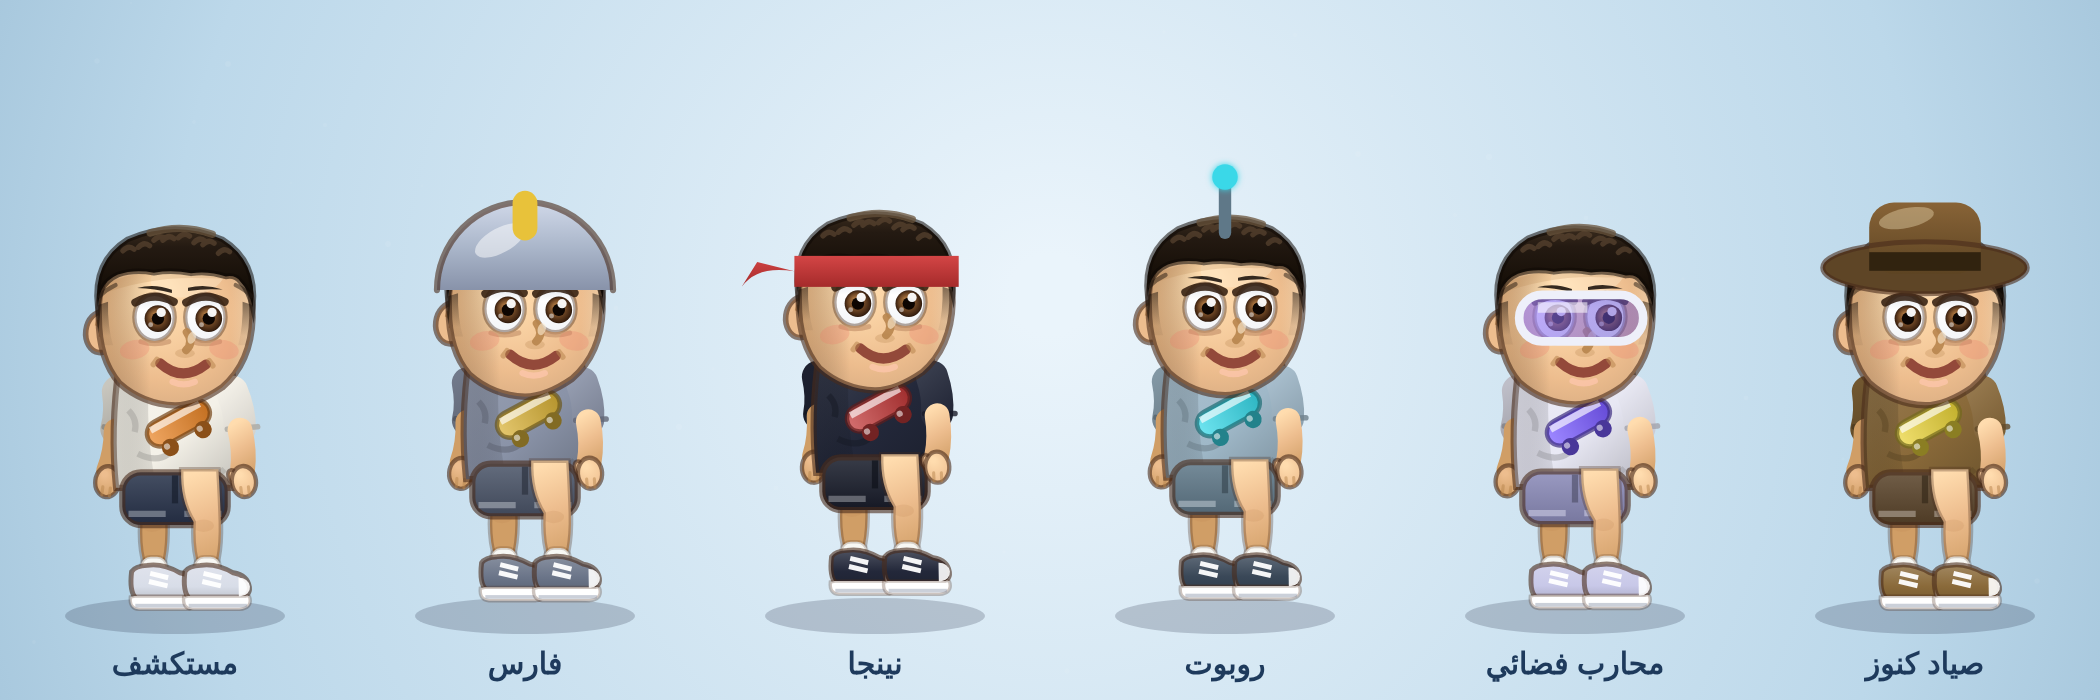
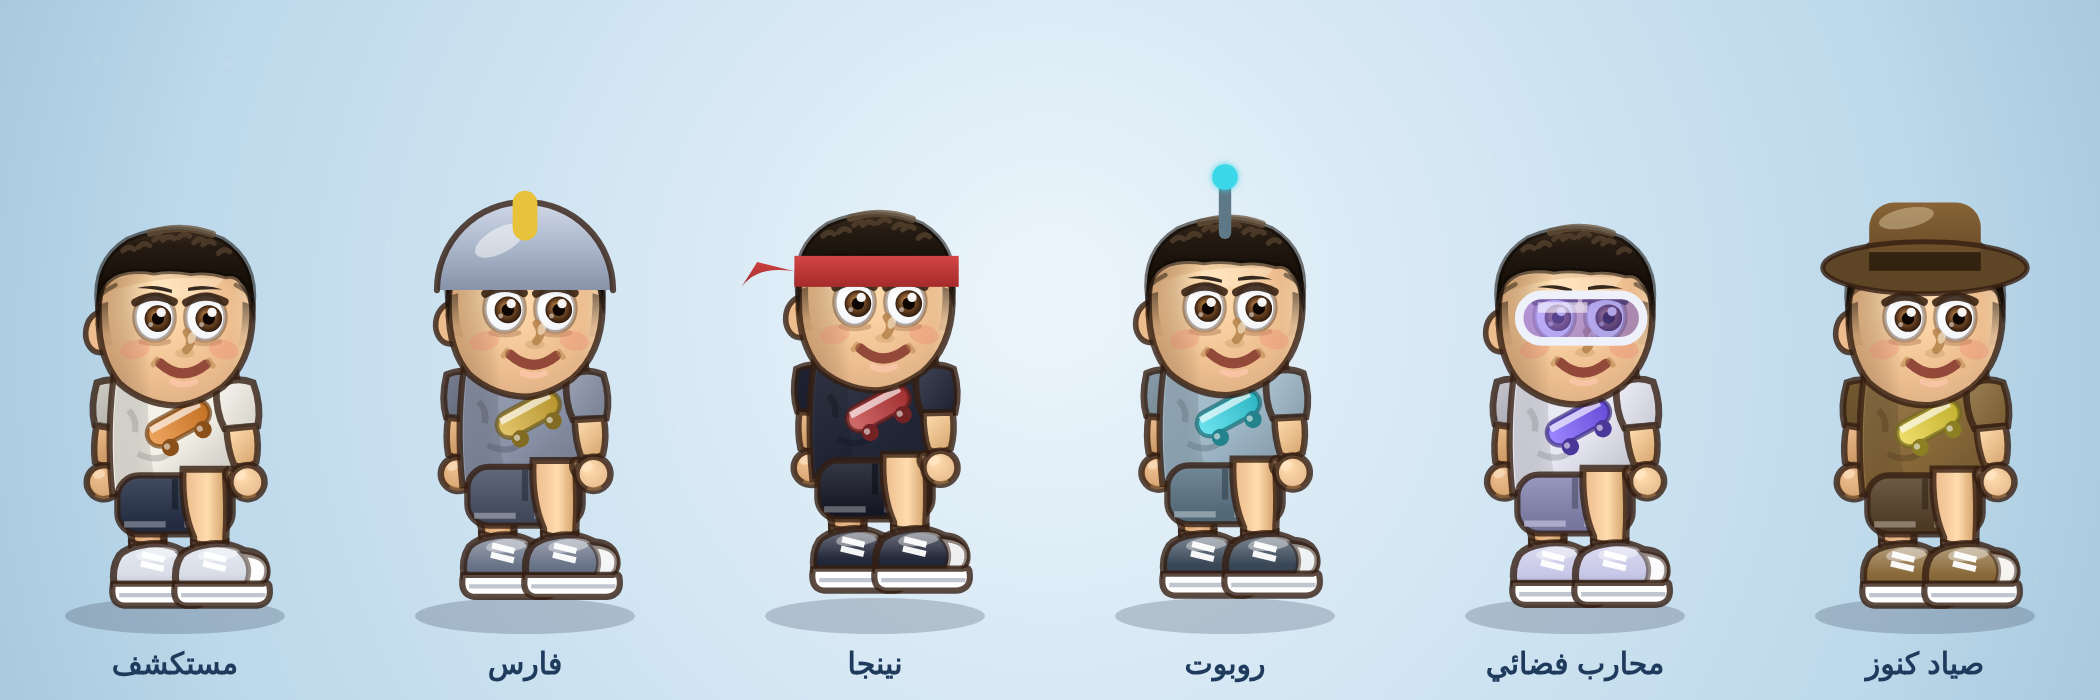
Character art restyle v5: chunky platformer-mascot look
Complete redraw of body and limbs in a different art direction while
keeping the photo-matched face:
- Bold comic outlines throughout (heavier, darker line weight)
- Chunky volumetric limbs replacing thin strokes: wide shirt sleeves
  as filled shapes with cuff, tapered forearm blocks with elbow bend,
  big round glove-style hands with integrated thumb, single knuckle
  crease and highlight
- Thick short legs with cylindrical shading and thick socks
- Signature oversized cartoon sneakers: puffy body, huge rounded
  rubber toe cap, extra-thick white sole with midline, bold laces
- Wider torso and shorts to balance the new proportions

Claude-Session: https://claude.ai/code/session_01WV3PCMXxFaSr6jYfzUPyqs

diff --git a/js/game/characters.js b/js/game/characters.js
@@ -15,7 +15,7 @@ window.RN = window.RN || {};
   const SKIN_HI = '#ffdcae';
   const SKIN_SHADE = '#d09e66';
   const SKIN_DEEP = '#b8854e';
-  const LINE = 'rgba(74,44,26,0.6)';
+  const LINE = 'rgba(52,30,18,0.8)';
   const HAIR = '#241a12';
   const HAIR_DK = '#150e07';
   const HAIR_HI = '#4a3826';
@@ -135,8 +135,8 @@ window.RN = window.RN || {};
     const breath = (p.breath || 0) * 0.7;
 
     // ---- ساق خلفية / ذراع خلفية (الكتف عند حافة الجذع) ----
-    leg(ctx, -4, -22, p.legB, o, false);
-    arm(ctx, -9.2, -36, p.armB, o, false, p, fx);
+    leg(ctx, -4.7, -21, p.legB, o, false);
+    arm(ctx, -9.7, -36.5, p.armB, o, false, p, fx);
 
     // ---- الجذع: تيشيرت ----
     const sg2 = ctx.createLinearGradient(-9, -40, 9, -20);
@@ -146,11 +146,11 @@ window.RN = window.RN || {};
     ctx.fillStyle = sg2;
     const hem = Math.sin(t * 10) * (p.hairSway || 0) * 1.2;
     ctx.beginPath();
-    ctx.moveTo(-9, -40 + breath * -0.8);
-    ctx.quadraticCurveTo(-10.5, -30, -9.5 - hem * 0.5, -20.5);
-    ctx.lineTo(9.5 + hem * 0.5, -20.5);
-    ctx.quadraticCurveTo(10.5 + breath * 0.8, -30, 9, -40 + breath * -0.8);
-    ctx.quadraticCurveTo(0, -43 - breath, -9, -40 + breath * -0.8);
+    ctx.moveTo(-9.6, -40 + breath * -0.8);
+    ctx.quadraticCurveTo(-11.2, -30, -10.1 - hem * 0.5, -19.5);
+    ctx.lineTo(10.1 + hem * 0.5, -19.5);
+    ctx.quadraticCurveTo(11.2 + breath * 0.8, -30, 9.6, -40 + breath * -0.8);
+    ctx.quadraticCurveTo(0, -43.4 - breath, -9.6, -40 + breath * -0.8);
     ctx.closePath();
     ctx.fill();
     ctx.strokeStyle = LINE; ctx.lineWidth = 1;
@@ -200,22 +200,22 @@ window.RN = window.RN || {};
     pg.addColorStop(0, U.shade(o.pants, 0.14));
     pg.addColorStop(1, U.shade(o.pants, -0.14));
     ctx.fillStyle = pg;
-    U.roundRect(ctx, -8.5, -23, 17, 8.5, 3); ctx.fill();
+    U.roundRect(ctx, -9.3, -22.5, 18.6, 9.5, 3.5); ctx.fill();
     ctx.strokeStyle = LINE; ctx.lineWidth = 1;
-    U.roundRect(ctx, -8.5, -23, 17, 8.5, 3); ctx.stroke();
+    U.roundRect(ctx, -9.3, -22.5, 18.6, 9.5, 3.5); ctx.stroke();
     // خط وسط + حافة مخيطة
     ctx.strokeStyle = U.alpha(U.shade(o.pants, -0.4), 0.7); ctx.lineWidth = 1;
-    ctx.beginPath(); ctx.moveTo(0, -22.5); ctx.lineTo(0, -18); ctx.stroke();
+    ctx.beginPath(); ctx.moveTo(0, -22); ctx.lineTo(0, -17); ctx.stroke();
     ctx.strokeStyle = U.alpha(U.shade(o.pants, 0.4), 0.8);
-    ctx.beginPath(); ctx.moveTo(-7.5, -16.3); ctx.lineTo(-1.5, -16.3); ctx.moveTo(1.5, -16.3); ctx.lineTo(7.5, -16.3); ctx.stroke();
+    ctx.beginPath(); ctx.moveTo(-8.2, -14.6); ctx.lineTo(-1.5, -14.6); ctx.moveTo(1.5, -14.6); ctx.lineTo(8.2, -14.6); ctx.stroke();
 
     // ---- ساق أمامية / ذراع / رأس ----
     // الذراع المتدلية تُرسم خلف الرأس (الرأس الكرتوني أعرض من الجذع)،
     // والمرفوعة أو الهجومية تُرسم أمامه
-    leg(ctx, 4, -22, p.legA, o, true);
-    if (!p.armFront) arm(ctx, 9.2, -36, p.armA, o, true, p, fx);
+    leg(ctx, 4.7, -21, p.legA, o, true);
+    if (!p.armFront) arm(ctx, 9.7, -36.5, p.armA, o, true, p, fx);
     head(ctx, p, t, o, fx);
-    if (p.armFront) arm(ctx, 9.2, -36, p.armA, o, true, p, fx);
+    if (p.armFront) arm(ctx, 9.7, -36.5, p.armA, o, true, p, fx);
 
     ctx.globalAlpha = 1;
     ctx.restore();
@@ -225,72 +225,91 @@ window.RN = window.RN || {};
     ctx.save();
     ctx.translate(ox, oy);
     ctx.rotate(ang * 0.6);
-    // الكاحل أمام الورك قليلًا دائمًا (يمنع تزاحم القدمين في المنتصف)
-    const ax = front ? 1.2 : 0.6;
-    // ساق بمفصل ركبة: فخذ يميل قليلًا للأمام ثم قصبة تعود للكاحل
-    ctx.fillStyle = front ? skinGrad(ctx, -3, 0, 3, 15) : SKIN_SHADE;
+    const ax = front ? 0.9 : 0.3;
+    // ساق ممتلئة (Chunky): أسطوانة مدببة قصيرة بحجم حقيقي
+    const lgr = ctx.createLinearGradient(-3, 0, 3.5, 0);
+    lgr.addColorStop(0, front ? SKIN : SKIN_SHADE);
+    lgr.addColorStop(0.55, front ? SKIN_HI : SKIN);
+    lgr.addColorStop(1, front ? SKIN_SHADE : SKIN_DEEP);
+    ctx.fillStyle = lgr;
     ctx.beginPath();
-    ctx.moveTo(-3.0, -1.5);
-    ctx.quadraticCurveTo(-3.2, 3.5, ax - 2.2, 7);      // خارج الفخذ حتى الركبة
-    ctx.quadraticCurveTo(ax - 2.4, 10.5, ax - 1.8, 13); // قصبة
-    ctx.quadraticCurveTo(ax - 1.7, 14.8, ax, 15);       // كاحل مستدير
-    ctx.quadraticCurveTo(ax + 1.7, 14.8, ax + 1.8, 13);
-    ctx.quadraticCurveTo(ax + 2.3, 10.5, ax + 2.2, 7);
-    ctx.quadraticCurveTo(3.3, 3.5, 3.0, -1.5);
+    ctx.moveTo(-3.4, -2.5);
+    ctx.quadraticCurveTo(-3.7, 4, ax - 2.6, 8.5);
+    ctx.quadraticCurveTo(ax - 2.7, 11.5, ax, 11.8);
+    ctx.quadraticCurveTo(ax + 2.7, 11.5, ax + 2.6, 8.5);
+    ctx.quadraticCurveTo(3.8, 4, 3.4, -2.5);
     ctx.closePath();
     ctx.fill();
-    ctx.strokeStyle = 'rgba(74,44,26,0.3)'; ctx.lineWidth = 0.75;
+    ctx.strokeStyle = LINE; ctx.lineWidth = 1.15;
     ctx.stroke();
-    // ظل ركبة ناعم جدًا (بلا خطوط)
-    ctx.fillStyle = U.alpha(SKIN_DEEP, 0.16);
-    ctx.beginPath(); ctx.ellipse(ax * 0.5, 7.6, 1.7, 1.0, 0, 0, 7); ctx.fill();
-    // جورب قصير
+    // جورب سميك
     ctx.fillStyle = '#f8f8f4';
-    U.roundRect(ctx, ax - 2.1, 12.6, 4.2, 3.2, 1.7); ctx.fill();
-    ctx.strokeStyle = 'rgba(74,44,26,0.2)'; ctx.lineWidth = 0.55;
-    U.roundRect(ctx, ax - 2.1, 12.6, 4.2, 3.2, 1.7); ctx.stroke();
-    // حذاء رياضي منحوت
+    ctx.beginPath();
+    ctx.moveTo(ax - 2.75, 9.2);
+    ctx.quadraticCurveTo(ax - 2.8, 12.4, ax, 12.6);
+    ctx.quadraticCurveTo(ax + 2.8, 12.4, ax + 2.75, 9.2);
+    ctx.quadraticCurveTo(ax, 10.2, ax - 2.75, 9.2);
+    ctx.closePath();
+    ctx.fill();
+    ctx.strokeStyle = LINE; ctx.lineWidth = 0.9;
+    ctx.stroke();
+    /* حذاء كرتوني كبير — توقيع الأسلوب الجديد:
+       جسم منتفخ بمقدمة مستديرة ضخمة ونعل أبيض سميك */
     ctx.save();
-    ctx.translate(ax, 17);
-    const shg = ctx.createLinearGradient(0, -3.5, 0, 3);
-    shg.addColorStop(0, U.shade(o.shoes, 0.22));
-    shg.addColorStop(0.6, o.shoes);
-    shg.addColorStop(1, U.shade(o.shoes, -0.15));
+    ctx.translate(ax, 14.6);
+    const shg = ctx.createLinearGradient(0, -4, 0, 3);
+    shg.addColorStop(0, U.shade(o.shoes, 0.28));
+    shg.addColorStop(0.55, o.shoes);
+    shg.addColorStop(1, U.shade(o.shoes, -0.18));
     ctx.fillStyle = shg;
     ctx.beginPath();
-    ctx.moveTo(-3.6, -2.0);
-    ctx.quadraticCurveTo(-4.0, 1.3, -2.9, 2.3);
-    ctx.lineTo(4.8, 2.3);
-    ctx.quadraticCurveTo(7.0, 2.1, 6.8, 0.5);
-    ctx.quadraticCurveTo(6.5, -1.4, 4.2, -1.8);
-    ctx.quadraticCurveTo(1.4, -3.4, -1.1, -3.0);
-    ctx.quadraticCurveTo(-3.0, -2.9, -3.6, -2.0);
+    ctx.moveTo(-4.6, -3.2);                                  // كعب علوي
+    ctx.quadraticCurveTo(-5.9, -1.2, -5.4, 1.6);             // ظهر الكعب
+    ctx.lineTo(7.2, 1.6);
+    ctx.quadraticCurveTo(9.6, 1.2, 9.2, -1.2);               // مقدمة ضخمة مستديرة
+    ctx.quadraticCurveTo(8.7, -3.8, 5.6, -4.0);
+    ctx.quadraticCurveTo(2.4, -5.6, -0.8, -4.9);             // لسان الحذاء
+    ctx.quadraticCurveTo(-3.4, -4.5, -4.6, -3.2);
     ctx.closePath();
     ctx.fill();
-    ctx.strokeStyle = LINE; ctx.lineWidth = 0.8;
+    ctx.strokeStyle = LINE; ctx.lineWidth = 1.15;
     ctx.stroke();
-    // نعل أبيض
+    // لمعة علوية
+    ctx.fillStyle = 'rgba(255,255,255,0.4)';
+    ctx.beginPath(); ctx.ellipse(1.5, -3.4, 3.4, 1.1, -0.12, 0, 7); ctx.fill();
+    // غطاء المقدمة المطاطي
+    ctx.fillStyle = 'rgba(255,255,255,0.92)';
+    ctx.beginPath();
+    ctx.moveTo(5.2, -3.4);
+    ctx.quadraticCurveTo(8.9, -3.2, 9.2, -1.2);
+    ctx.quadraticCurveTo(9.4, 0.6, 8.2, 1.4);
+    ctx.quadraticCurveTo(6.6, 1.6, 5.8, 1.5);
+    ctx.quadraticCurveTo(7.0, -1.4, 5.2, -3.4);
+    ctx.closePath();
+    ctx.fill();
+    ctx.strokeStyle = 'rgba(52,30,18,0.5)'; ctx.lineWidth = 0.8;
+    ctx.stroke();
+    // نعل أبيض سميك جدًا
     ctx.fillStyle = '#ffffff';
     ctx.beginPath();
-    ctx.moveTo(-3.8, 2.1);
-    ctx.quadraticCurveTo(-4.0, 4.0, -2.4, 4.1);
-    ctx.lineTo(5.2, 4.1);
-    ctx.quadraticCurveTo(7.2, 3.9, 6.9, 2.3);
-    ctx.quadraticCurveTo(6.8, 1.7, 6.1, 1.95);
-    ctx.lineTo(-3.1, 1.95);
+    ctx.moveTo(-5.6, 1.4);
+    ctx.quadraticCurveTo(-6.2, 4.6, -3.8, 4.9);
+    ctx.lineTo(7.6, 4.9);
+    ctx.quadraticCurveTo(10.2, 4.6, 9.6, 1.6);
+    ctx.quadraticCurveTo(9.4, 1.0, 8.6, 1.35);
+    ctx.lineTo(-4.8, 1.35);
     ctx.closePath();
     ctx.fill();
-    ctx.strokeStyle = 'rgba(74,44,26,0.28)'; ctx.lineWidth = 0.55;
+    ctx.strokeStyle = LINE; ctx.lineWidth = 1.0;
     ctx.stroke();
-    ctx.fillStyle = 'rgba(140,150,170,0.45)';
-    ctx.fillRect(-3.0, 3.2, 9.4, 0.6);
-    // مقدمة مطاطية + أربطة
-    ctx.fillStyle = 'rgba(255,255,255,0.9)';
-    ctx.beginPath(); ctx.ellipse(5.2, 0.5, 1.7, 1.5, 0.15, -1.8, 1.5); ctx.fill();
-    ctx.strokeStyle = 'rgba(255,255,255,0.95)'; ctx.lineWidth = 0.8;
+    // خط وسط النعل
+    ctx.strokeStyle = 'rgba(140,150,170,0.55)'; ctx.lineWidth = 0.7;
+    ctx.beginPath(); ctx.moveTo(-4.6, 3.2); ctx.lineTo(9.0, 3.2); ctx.stroke();
+    // أربطة
+    ctx.strokeStyle = 'rgba(255,255,255,0.95)'; ctx.lineWidth = 1.0;
     ctx.beginPath();
-    ctx.moveTo(-0.6, -1.7); ctx.lineTo(2.3, -1.0);
-    ctx.moveTo(-0.8, -0.4); ctx.lineTo(2.2, 0.3);
+    ctx.moveTo(-0.9, -3.4); ctx.lineTo(2.7, -2.5);
+    ctx.moveTo(-1.1, -1.9); ctx.lineTo(2.6, -1.0);
     ctx.stroke();
     ctx.restore();
     ctx.restore();
@@ -300,62 +319,74 @@ window.RN = window.RN || {};
     ctx.save();
     ctx.translate(ox, oy);
     ctx.rotate(ang);
-    const side = front ? 1 : 1; // الانحناء في فضاء الذراع المحلي
-    // كم القميص: يتقوس قليلًا للخارج
-    const sg = ctx.createLinearGradient(-3, 0, 3, 8);
-    sg.addColorStop(0, front ? U.shade(o.shirt, 0.1) : U.shade(o.shirt, -0.18));
-    sg.addColorStop(1, front ? U.shade(o.shirt, -0.14) : U.shade(o.shirt, -0.32));
-    ctx.strokeStyle = sg;
-    ctx.lineWidth = 5.2; ctx.lineCap = 'round';
+    // كم واسع (قطعة ممتلئة وليست خطًا)
+    const sg = ctx.createLinearGradient(-3, 0, 3.5, 5);
+    sg.addColorStop(0, front ? U.shade(o.shirt, 0.12) : U.shade(o.shirt, -0.16));
+    sg.addColorStop(1, front ? U.shade(o.shirt, -0.12) : U.shade(o.shirt, -0.3));
+    ctx.fillStyle = sg;
     ctx.beginPath();
-    ctx.moveTo(0, 0);
-    ctx.quadraticCurveTo(0.9 * side, 3.2, 0.5 * side, 6.0);
+    ctx.moveTo(-3.0, -0.6);
+    ctx.quadraticCurveTo(-3.6, 3.4, -2.5, 6.2);
+    ctx.lineTo(2.9, 6.4);
+    ctx.quadraticCurveTo(3.9, 3.2, 3.0, -0.6);
+    ctx.quadraticCurveTo(0, -2.2, -3.0, -0.6);
+    ctx.closePath();
+    ctx.fill();
+    ctx.strokeStyle = LINE; ctx.lineWidth = 1.1;
     ctx.stroke();
     // حافة الكم
-    ctx.strokeStyle = front ? U.alpha(U.shade(o.shirt, -0.3), 0.8) : U.alpha(U.shade(o.shirt, -0.45), 0.8);
-    ctx.lineWidth = 0.9;
-    ctx.beginPath(); ctx.moveTo(-2 + 0.5 * side, 5.9); ctx.lineTo(2.9 + 0.5 * side, 6.1); ctx.stroke();
-    // الساعد: انحناءة مرفق خفيفة تعيد اليد تحت الكتف
-    ctx.strokeStyle = front ? skinGrad(ctx, -2, 6, 2, 14) : SKIN_SHADE;
-    ctx.lineWidth = 4.0; ctx.lineCap = 'round';
+    ctx.strokeStyle = U.alpha(U.shade(o.shirt, -0.35), 0.85); ctx.lineWidth = 1;
+    ctx.beginPath(); ctx.moveTo(-2.5, 6.2); ctx.lineTo(2.9, 6.4); ctx.stroke();
+    // الساعد: كتلة مدببة بانحناءة مرفق
+    const fgr = ctx.createLinearGradient(-2.5, 7, 2.5, 13);
+    fgr.addColorStop(0, front ? SKIN_HI : SKIN);
+    fgr.addColorStop(1, front ? SKIN_SHADE : SKIN_DEEP);
+    ctx.fillStyle = fgr;
     ctx.beginPath();
-    ctx.moveTo(0.5 * side, 6.3);
-    ctx.quadraticCurveTo(0.9 * side, 9.8, 0.1 * side, 12.8);
+    ctx.moveTo(-2.2, 6.3);
+    ctx.quadraticCurveTo(-2.4, 9.6, -1.7, 12.2);
+    ctx.quadraticCurveTo(0.1, 13.2, 1.9, 12.2);
+    ctx.quadraticCurveTo(2.8, 9.6, 2.5, 6.4);
+    ctx.closePath();
+    ctx.fill();
+    ctx.strokeStyle = LINE; ctx.lineWidth = 1.05;
     ctx.stroke();
-    // اليد: بيضاوية عمودية بإبهام مدمج وخطي أصابع (تشير للأسفل)
+    // قفاز اليد: كرة كبيرة بإبهام مدمج (أسلوب أبطال المنصات)
     ctx.save();
-    ctx.translate(0.1 * side, 14.3);
-    const hg = ctx.createRadialGradient(-0.6, -0.9, 0.4, 0, 0.2, 3.0);
-    hg.addColorStop(0, front ? SKIN_HI : SKIN);
-    hg.addColorStop(1, front ? SKIN : SKIN_SHADE);
-    // الإبهام نحو الجسم (يندمج بالكف)
-    const thx = front ? -1.55 : 1.55;
-    ctx.fillStyle = hg;
-    ctx.beginPath(); ctx.ellipse(thx, -0.5, 0.8, 1.35, front ? -0.35 : 0.35, 0, 7); ctx.fill();
-    ctx.strokeStyle = LINE; ctx.lineWidth = 0.6;
-    ctx.beginPath(); ctx.ellipse(thx, -0.5, 0.8, 1.35, front ? -0.35 : 0.35, 0, 7); ctx.stroke();
-    // الكف عمودية (أطول من عرضها)
-    ctx.fillStyle = hg;
-    ctx.beginPath(); ctx.ellipse(0, 0.3, 1.95, 2.5, 0, 0, 7); ctx.fill();
-    ctx.strokeStyle = LINE; ctx.lineWidth = 0.7;
-    ctx.beginPath(); ctx.ellipse(0, 0.3, 1.95, 2.5, 0, 0, 7); ctx.stroke();
-    // خطا أصابع
-    ctx.strokeStyle = U.alpha(SKIN_DEEP, 0.5); ctx.lineWidth = 0.5;
+    ctx.translate(0.1, 15.0);
+    const hgg = ctx.createRadialGradient(-0.9, -1.0, 0.5, 0, 0.2, 3.6);
+    hgg.addColorStop(0, front ? SKIN_HI : SKIN);
+    hgg.addColorStop(1, front ? U.shade(SKIN, -0.06) : SKIN_SHADE);
+    // الإبهام
+    const thx = front ? -2.2 : 2.2;
+    ctx.fillStyle = hgg;
+    ctx.beginPath(); ctx.ellipse(thx, -0.8, 1.05, 1.6, front ? -0.4 : 0.4, 0, 7); ctx.fill();
+    ctx.strokeStyle = LINE; ctx.lineWidth = 0.95;
+    ctx.beginPath(); ctx.ellipse(thx, -0.8, 1.05, 1.6, front ? -0.4 : 0.4, 0, 7); ctx.stroke();
+    // الكف: مستديرة كبيرة
+    ctx.fillStyle = hgg;
+    ctx.beginPath(); ctx.arc(0, 0.2, 2.75, 0, 7); ctx.fill();
+    ctx.strokeStyle = LINE; ctx.lineWidth = 1.05;
+    ctx.beginPath(); ctx.arc(0, 0.2, 2.75, 0, 7); ctx.stroke();
+    // ثنية أصابع واحدة ناعمة
+    ctx.strokeStyle = U.alpha(SKIN_DEEP, 0.5); ctx.lineWidth = 0.6;
     ctx.beginPath();
-    ctx.moveTo(-0.62, 2.55); ctx.lineTo(-0.62, 1.2);
-    ctx.moveTo(0.62, 2.6); ctx.lineTo(0.62, 1.25);
+    ctx.moveTo(-1.1, 2.35); ctx.quadraticCurveTo(0, 2.9, 1.1, 2.35);
     ctx.stroke();
+    // لمعة
+    ctx.fillStyle = 'rgba(255,235,205,0.55)';
+    ctx.beginPath(); ctx.ellipse(-0.9, -1.0, 1.0, 0.7, -0.5, 0, 7); ctx.fill();
     ctx.restore();
     // شفرة الطاقة عند الهجوم
     if (front && p.armPose === 'swing') {
       ctx.globalCompositeOperation = 'screen';
-      const grad = ctx.createLinearGradient(0, 15, 0, 45);
+      const grad = ctx.createLinearGradient(0, 16, 0, 46);
       grad.addColorStop(0, fx && fx.power2x ? 'rgba(255,90,138,0.95)' : 'rgba(90,216,255,0.95)');
       grad.addColorStop(1, 'rgba(90,216,255,0)');
       ctx.strokeStyle = grad; ctx.lineWidth = 8;
-      ctx.beginPath(); ctx.moveTo(0, 16); ctx.lineTo(0, 43); ctx.stroke();
+      ctx.beginPath(); ctx.moveTo(0.1, 17); ctx.lineTo(0.1, 44); ctx.stroke();
       ctx.strokeStyle = 'rgba(255,255,255,0.95)'; ctx.lineWidth = 2.5;
-      ctx.beginPath(); ctx.moveTo(0, 16); ctx.lineTo(0, 38); ctx.stroke();
+      ctx.beginPath(); ctx.moveTo(0.1, 17); ctx.lineTo(0.1, 39); ctx.stroke();
       ctx.globalCompositeOperation = 'source-over';
     }
     ctx.restore();
